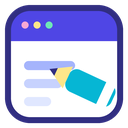
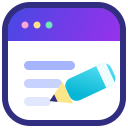
fix: 图标还有getting-stared参数

diff --git a/shared.js b/shared.js
@@ -17,9 +17,6 @@ export const SCREENSHOT_DESTINATIONS = ["clipboard", "download"];
 export const HIDE_REPEATED_ELEMENTS_KEY = "hideRepeatedElements";
 
 export function getBrowserPlatform(userAgent = "") {
-  const firefoxApi = typeof globalThis.browser !== "undefined" &&
-    globalThis.browser?.runtime?.getBrowserInfo;
-  if (firefoxApi || /Firefox\//i.test(userAgent)) return "firefox";
   if (/Edg\//i.test(userAgent)) return "edge";
   return "chrome";
 }

diff --git a/icons/generate_icons.py b/icons/generate_icons.py
@@ -1,63 +1,27 @@
 #!/usr/bin/env python3
-"""Render the Edit Page extension icon at Chrome's required sizes."""
+"""Render Chrome extension PNG icons from icons/icon.svg."""
 
 from pathlib import Path
-from PIL import Image, ImageDraw
+
+try:
+    import cairosvg
+except ImportError as error:
+    raise SystemExit(
+        "CairoSVG is required. Install it with: python3 -m pip install CairoSVG"
+    ) from error
 
 
 ROOT = Path(__file__).resolve().parent
-SCALE = 8
+SOURCE = ROOT / "icon.svg"
+SIZES = (16, 48, 128)
 
 
-def rounded(draw, box, radius, fill, outline=None, width=1):
-    draw.rounded_rectangle(
-        tuple(value * SCALE for value in box),
-        radius=radius * SCALE,
-        fill=fill,
-        outline=outline,
-        width=width * SCALE,
+for size in SIZES:
+    output = ROOT / f"icon{size}.png"
+    cairosvg.svg2png(
+        url=str(SOURCE),
+        write_to=str(output),
+        output_width=size,
+        output_height=size,
     )
-
-
-def polygon(draw, points, fill):
-    draw.polygon([(x * SCALE, y * SCALE) for x, y in points], fill=fill)
-
-
-def create_master():
-    size = 128 * SCALE
-    image = Image.new("RGBA", (size, size), (0, 0, 0, 0))
-    draw = ImageDraw.Draw(image)
-
-    # The browser page is now the whole icon, maximizing clarity at 16 px.
-    rounded(draw, (5, 5, 123, 123), 25, "#FFFFFF")
-    rounded(draw, (8, 8, 120, 41), 20, "#4F46E5")
-    draw.rectangle((8 * SCALE, 25 * SCALE, 120 * SCALE, 41 * SCALE), fill="#4F46E5")
-
-    for x, color in ((25, "#F9A8D4"), (37, "#FDE68A"), (49, "#6EE7B7")):
-        draw.ellipse(((x - 3.5) * SCALE, 21.5 * SCALE, (x + 3.5) * SCALE, 28.5 * SCALE), fill=color)
-
-    rounded(draw, (24, 61, 75, 70), 4.5, "#A5B4FC")
-    rounded(draw, (24, 79, 62, 88), 4.5, "#C7D2FE")
-    rounded(draw, (24, 97, 51, 106), 4.5, "#E0E7FF")
-
-    pencil = Image.new("RGBA", image.size, (0, 0, 0, 0))
-    pen = ImageDraw.Draw(pencil)
-    rounded(pen, (66, 73, 116, 97), 8, "#06B6D4")
-    pen.rectangle((103 * SCALE, 73 * SCALE, 113 * SCALE, 97 * SCALE), fill=(255, 255, 255, 235))
-    polygon(pen, [(66, 73), (66, 97), (46, 85)], "#FDE68A")
-    polygon(pen, [(53, 80.8), (53, 89.2), (46, 85)], "#312E81")
-    pencil = pencil.rotate(-25, center=(84 * SCALE, 85 * SCALE), resample=Image.Resampling.BICUBIC)
-    image.alpha_composite(pencil)
-
-    # Draw the outline last so the colored header never protrudes past the page.
-    draw = ImageDraw.Draw(image)
-    rounded(draw, (5, 5, 123, 123), 25, None, "#312E81", 6)
-    return image
-
-
-master = create_master()
-for output_size in (16, 48, 128):
-    output = master.resize((output_size, output_size), Image.Resampling.LANCZOS)
-    path = ROOT / f"icon{output_size}.png"
-    output.save(path, optimize=True)
-    print(f"Generated {path.name}")
+    print(f"Generated {output.name} from {SOURCE.name}")

diff --git a/CHROMEWEBSTORE.md b/CHROMEWEBSTORE.md
@@ -88,9 +88,9 @@ Edit Page - ウェブページ編集とページ全体撮影
 - `scripting`: Runs the user-selected editing, image replacement, element removal, and full-page screenshot behavior in the current webpage.
 - `storage`: Saves interface language, screenshot preferences, free-feature usage, selected replacement-image data, and locally verified Premium activation state. Preferences and free-feature usage use Chrome sync storage; activation and temporary image data use local storage; the full-page screenshot task lock uses session storage.
 - `alarms`: Periodically checks an existing Premium activation so revoked, refunded, expired, or moved activations are reflected without requiring the user to open the extension.
-- `offscreen`: Creates a hidden extension document that combines locally captured viewport segments into one full-page PNG. The image is not uploaded by this process.
-- `clipboardWrite`: Writes a screenshot to the clipboard when the user has selected Clipboard as the save method.
-- `downloads`: Saves a screenshot as a PNG file when the user has selected Download as the save method.
+- `offscreen`: Required only for the user-initiated full-page screenshot feature. Edit Page captures the webpage in viewport-sized segments and uses a hidden offscreen document with a canvas to combine those segments into one PNG image. The offscreen document is not used for browsing, tracking, advertising, or background data collection, and screenshot data is not uploaded.
+- `clipboardWrite`: Required to copy a screenshot to the system clipboard when the user selects Clipboard as the screenshot save method and then initiates a screenshot. The permission is used only for the resulting PNG image and is never used to read clipboard contents.
+- `downloads`: Required to save a screenshot as a PNG file when the user selects Download as the screenshot save method and then initiates a screenshot. Files are created only in response to that explicit user action; the extension does not inspect, modify, or manage existing downloads.
 
 ### Host permission
 
@@ -112,7 +112,7 @@ Edit Page - ウェブページ編集とページ全体撮影
 - Periodic Premium validation sends the stored License Key and hashed device fingerprint to `https://licentra.henriz.dev`.
 - The device fingerprint is derived from operating-system type, CPU architecture, logical processor count, and reported device memory. Screen dimensions, browsing history, webpage content, and screenshot content are not included.
 - Clicking website, review, or feedback links opens the relevant external page. `utm_source=dashboard` may be included in the opened URL for source attribution.
-- On first installation, Edit Page opens `https://editpage.henriz.dev/getting-started` with the browser type in the query string. After uninstalling, Chrome opens `https://editpage.henriz.dev/goodbye`. These lifecycle links do not include webpage content, license information, or locally stored usage data.
+- On first installation, Edit Page opens `https://editpage.henriz.dev/getting-started?installed=1&browser=chrome` (or `browser=edge` in Microsoft Edge). After uninstalling, Chrome opens `https://editpage.henriz.dev/goodbye`. These lifecycle links do not include webpage content, license information, or locally stored usage data.
 
 ### Data not collected by the extension
 
@@ -131,6 +131,7 @@ Edit Page - ウェブページ編集とページ全体撮影
 - Added language, screenshot, Premium activation, usage, and support settings.
 - Added Spanish, Brazilian Portuguese, and Japanese interface and store localization.
 - Added first-install Getting Started and post-uninstall Goodbye links.
+- Regenerated all extension icon sizes from the shared SVG artwork.
 
 ## Publishing Readiness
 
